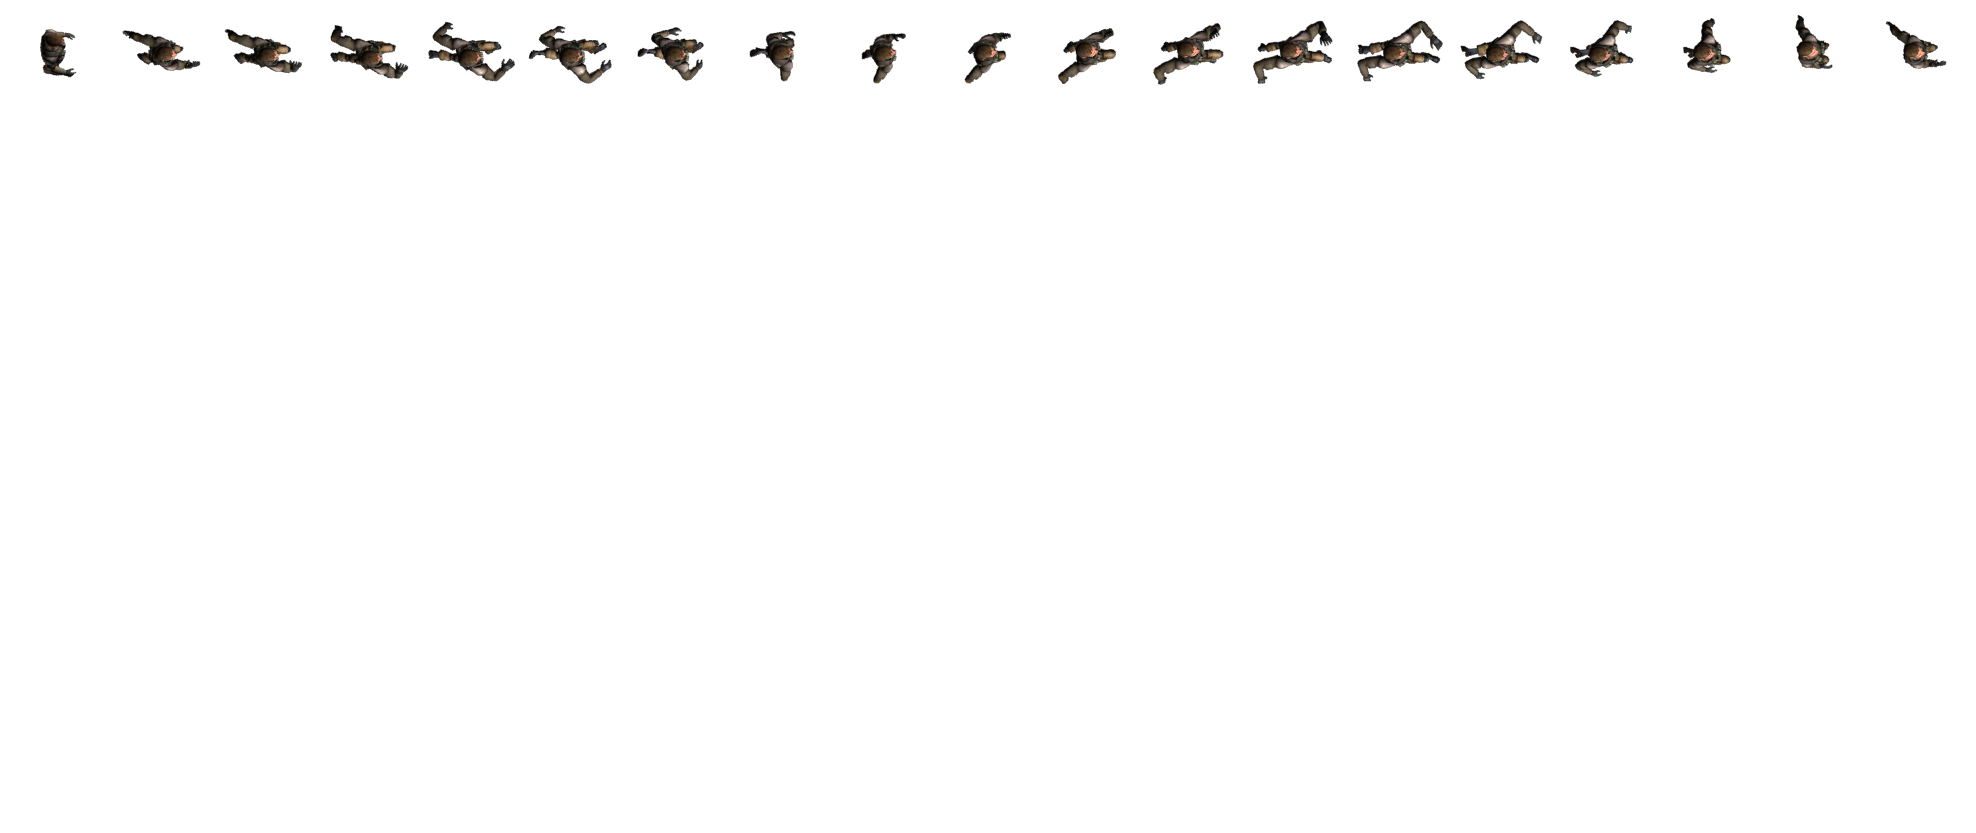
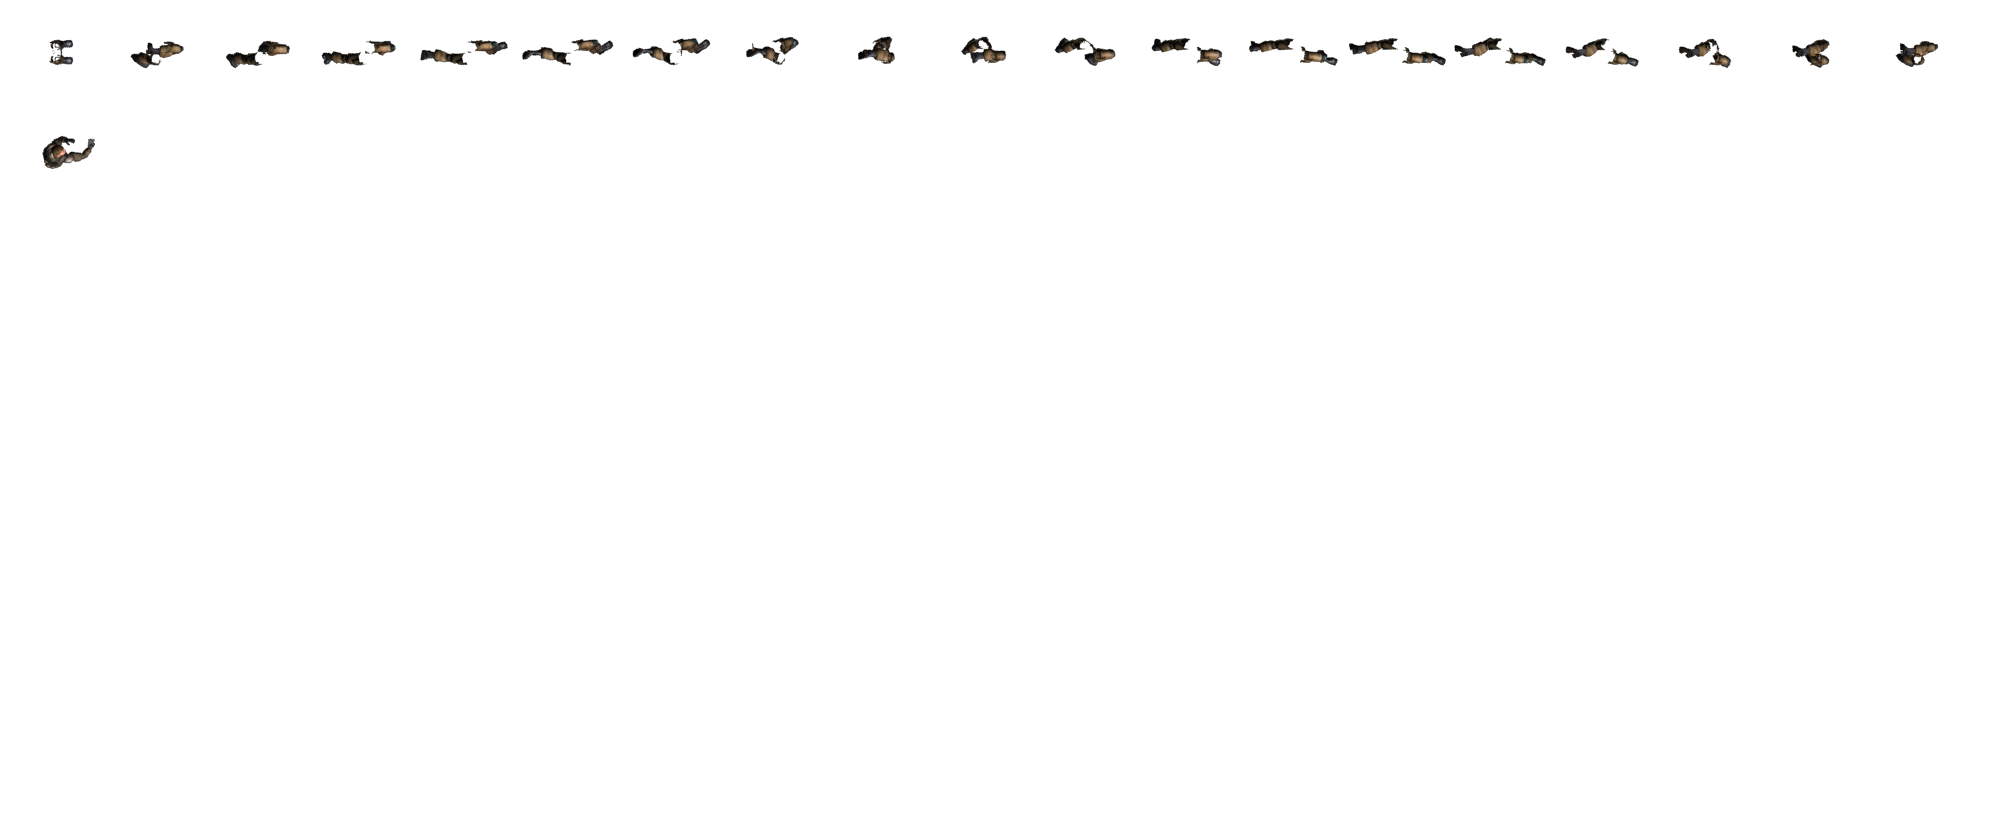
New actor renderer.

diff --git a/utils/src/com/slaggun/CombineImages.java b/utils/src/com/slaggun/CombineImages.java
@@ -25,7 +25,7 @@ import java.util.Arrays;
 public class CombineImages {
 	public static void main(String[] args) throws IOException {
 
-		File dir = new File("C:/development/stalker/out/top2/frames");
+		File dir = new File(".");
 		File[] images = dir.listFiles(new FilenameFilter() {
 			public boolean accept(File dir, String name) {
 				return name.endsWith(".png");
@@ -33,8 +33,11 @@ public class CombineImages {
 		});
 		Arrays.sort(images);
 
+
+        BufferedImage first = ImageIO.read(images[0]);
+
 		BufferedImage result = new BufferedImage(
-                               images.length * 104, 833, //work these out
+                               images.length * (first.getWidth() + 1), first.getHeight(), //work these out
                                BufferedImage.TYPE_INT_ARGB);
         Graphics g = result.getGraphics();
 
@@ -53,8 +56,7 @@ public class CombineImages {
 
 
 
-		ImageIO.write(result, "png", new File("C:/development/slag-gun/trunk/hg/client/src/com/slaggun/actor/player/renderer/res/stalker.png"));
-		//ImageIO.write(result, "png", new File("C:/development/stalker/out/top2/temp.png"));
+		ImageIO.write(result, "png", new File("../result.png"));
 
 		System.out.println("Done");
 	}
